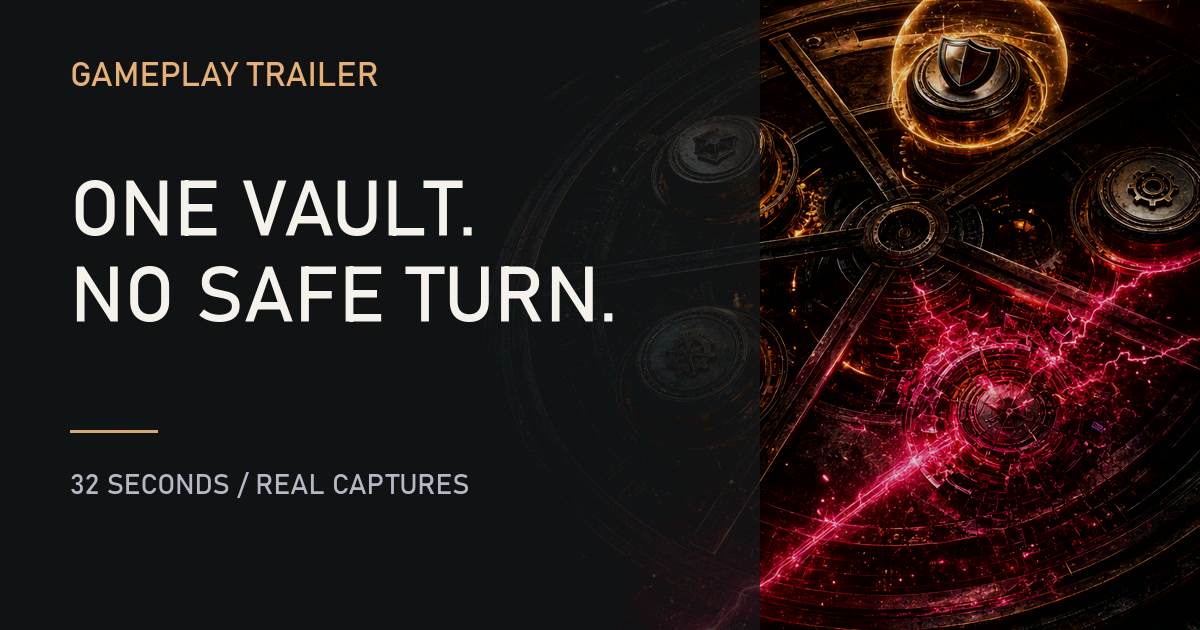
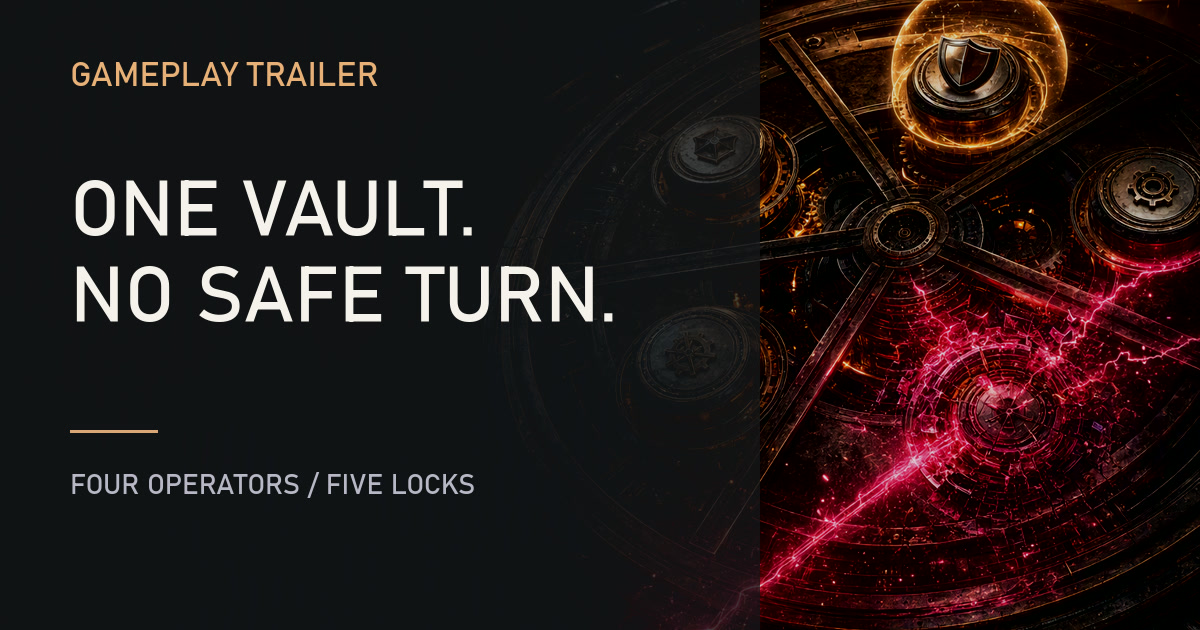
Refine trailer copy for players

Changed region(s): [[0.0617, 0.754, 0.4008, 0.7841]]

diff --git a/app/src/pages/TrailerPage.jsx b/app/src/pages/TrailerPage.jsx
@@ -2,12 +2,12 @@ import { Link } from 'react-router-dom';
 import Seo from '../components/seo/Seo';
 
 const CHAPTERS = [
-  ['00:00', 'Enter the vault', 'Original Plundrix vault art introduces the five-lock objective.'],
-  ['00:04', 'Assemble the table', 'The real configured lobby shows the join and start flow.'],
-  ['00:08', 'Make the read', 'A captured active match shows live locks, tools, rivals, and actions.'],
-  ['00:12', 'Resolve together', 'The production resolution state reveals simultaneous outcomes.'],
-  ['00:16', 'Break their plan', 'Sabotage and comeback art extend the actual mechanic.'],
-  ['00:24', 'Breach confirmed', 'The funded Sepolia winner screen supplies live-network proof.'],
+  ['00:00', 'Enter the vault', 'Five locks stand between the table and the score.'],
+  ['00:04', 'Assemble the table', 'Operators take their seats and the first round opens.'],
+  ['00:08', 'Make the read', 'Locks, tools, and rival intentions shape the next move.'],
+  ['00:12', 'Resolve together', 'All four decisions land and the table changes at once.'],
+  ['00:16', 'Break their plan', 'A well-timed Sabotage turns a leader into a target.'],
+  ['00:24', 'Breach confirmed', 'One operator cracks the final lock and takes the vault.'],
 ];
 
 export default function TrailerPage() {
@@ -15,7 +15,7 @@ export default function TrailerPage() {
     <div className="mx-auto max-w-7xl px-4 py-8 sm:px-6 lg:py-12">
       <Seo
         title="Plundrix Gameplay Trailer"
-        description="Watch a 32-second Plundrix gameplay trailer assembled from real product captures and original game art."
+        description="Watch a 32-second Plundrix vault race from the first move to the final lock."
         path="/trailer"
         image="/images/og/plundrix-trailer.jpg"
         imageAlt="Plundrix gameplay trailer - One vault. No safe turn."
@@ -24,7 +24,7 @@ export default function TrailerPage() {
           '@context': 'https://schema.org',
           '@type': 'VideoObject',
           name: 'Plundrix Gameplay Trailer',
-          description: 'A 32-second gameplay trailer assembled from real Plundrix product captures and original game art.',
+          description: 'A 32-second Plundrix vault race from the first move to the final lock.',
           thumbnailUrl: 'https://game.plundrix.com/images/og/plundrix-trailer.jpg',
           contentUrl: 'https://game.plundrix.com/video/plundrix-gameplay-trailer.mp4',
           embedUrl: 'https://game.plundrix.com/trailer',
@@ -36,7 +36,7 @@ export default function TrailerPage() {
       />
 
       <header className="max-w-4xl">
-        <p className="font-mono text-[10px] uppercase tracking-[0.24em] text-oxide-green">32 seconds / captured gameplay</p>
+        <p className="font-mono text-[10px] uppercase tracking-[0.24em] text-oxide-green">32-second trailer</p>
         <h1 className="mt-4 font-display text-5xl font-bold uppercase leading-[0.88] text-vault-text sm:text-7xl lg:text-8xl">One vault. Three intentions. No safe turn.</h1>
         <p className="mt-6 max-w-2xl text-lg leading-8 text-vault-text-dim">Four operators. Five locks. Every choice lands at once. Watch the table turn in 32 seconds.</p>
       </header>

diff --git a/app/src/pages/HomePage.jsx b/app/src/pages/HomePage.jsx
@@ -350,7 +350,7 @@ function TrailerPreview() {
     <section className="border-b border-vault-border/70 bg-vault-surface/45">
       <div className="mx-auto grid max-w-7xl gap-8 px-5 py-12 sm:px-8 lg:grid-cols-[0.72fr_1.28fr] lg:items-center lg:px-10 lg:py-16">
         <div>
-          <p className="font-mono text-[10px] uppercase tracking-[0.2em] text-oxide-green">32 seconds / real product captures</p>
+          <p className="font-mono text-[10px] uppercase tracking-[0.2em] text-oxide-green">32-second trailer</p>
           <h2 className="mt-4 font-display text-4xl font-semibold uppercase leading-[0.95] text-vault-text sm:text-5xl">See the pressure before you play.</h2>
           <p className="mt-5 max-w-lg text-base leading-7 text-vault-text-dim">
             Watch four operators race from the opening move to the final lock, with every bluff and setback still visible.

diff --git a/app/tests/e2e/product.spec.js b/app/tests/e2e/product.spec.js
@@ -200,7 +200,7 @@ test('instant play starts against agents and resolves a guided turn', async ({ p
   await expectNoSeriousA11yIssues(page);
 });
 
-test('gameplay trailer uses the checked-in real capture montage', async ({ page }) => {
+test('gameplay trailer presents the complete vault race', async ({ page }) => {
   await page.goto('/trailer');
   await expect(page.getByRole('heading', { name: /one vault/i })).toBeVisible();
   await expect(page.locator('video source[src="/video/plundrix-gameplay-trailer.mp4"]')).toHaveCount(1);
